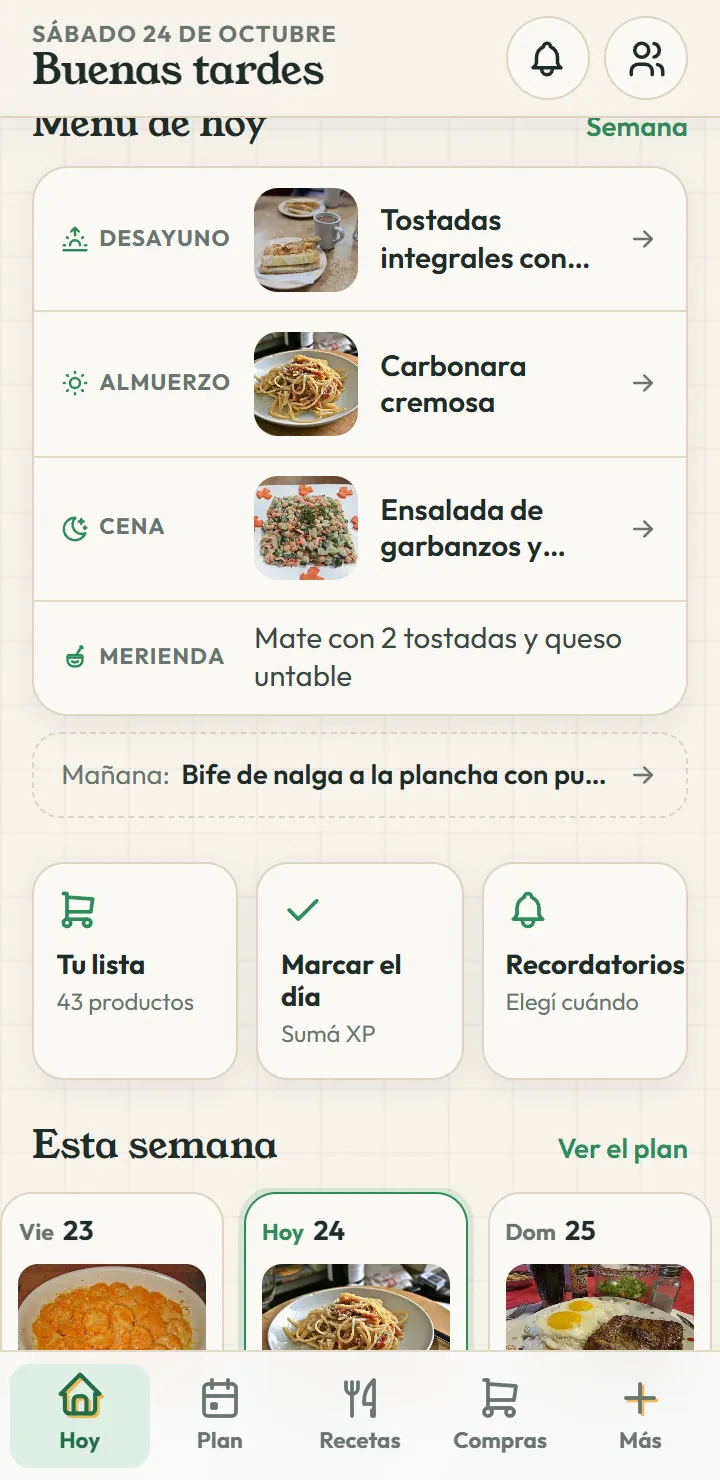
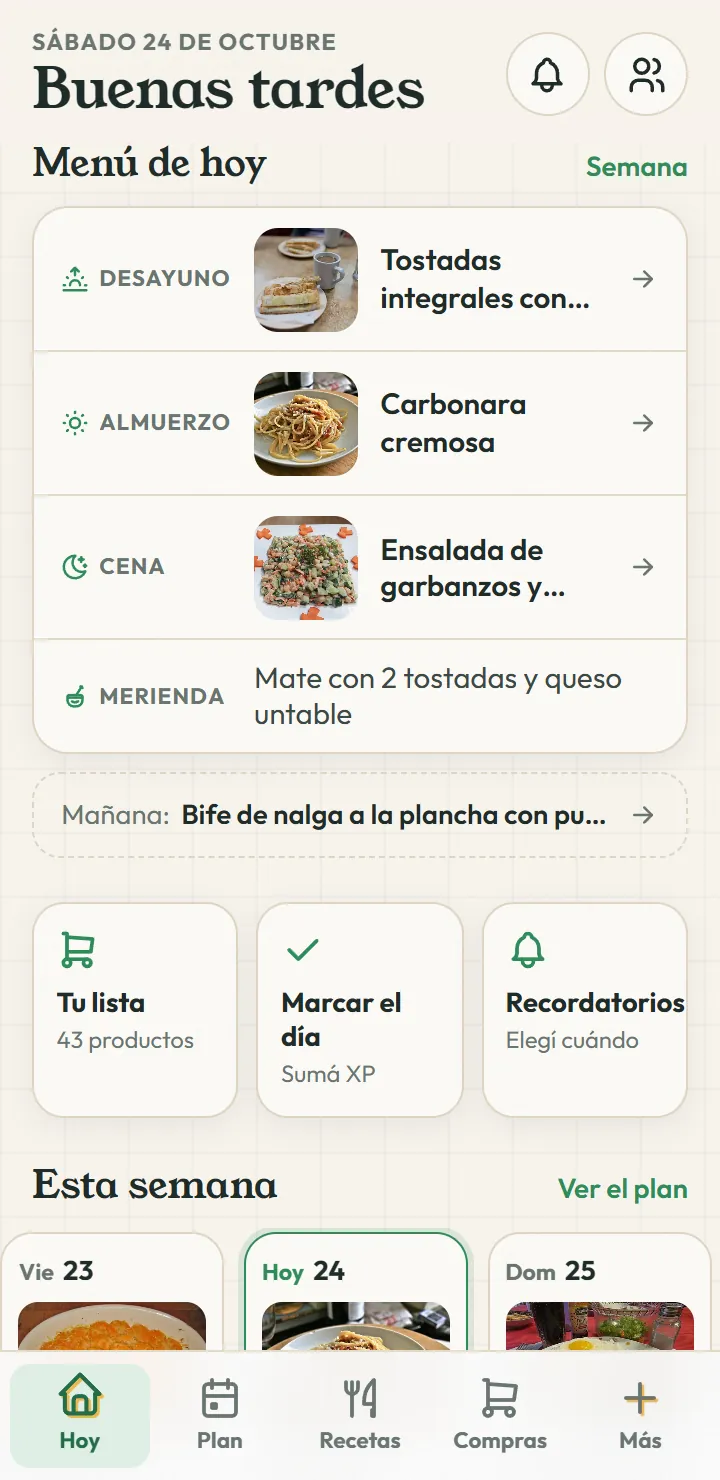
Hoy: «Avisos» en los accesos rápidos; capturas de la app actualizadas

diff --git a/app.js b/app.js
@@ -823,7 +823,7 @@
         <div class="ap-quick">
           <a class="ap-q" href="compras.html">${ic("compras")}<span><b>Tu lista</b><small>${n} productos</small></span></a>
           <a class="ap-q" href="mi-plan.html">${ic("check")}<span><b>Marcar el día</b><small>Sumá XP</small></span></a>
-          <button type="button" class="ap-q notif-btn">${ic("bell")}<span><b>Recordatorios</b><small class="ap-nstate">Elegí cuándo</small></span></button>
+          <button type="button" class="ap-q notif-btn">${ic("bell")}<span><b>Avisos</b><small class="ap-nstate">Elegí cuándo</small></span></button>
         </div>
         <section class="ap-week"><div class="ap-h"><h2>Esta semana</h2><a href="plan.html">Ver el plan</a></div>
           <div class="ap-days">${week.map((d) => { const r = R[d.almuerzo]; return `<button type="button" class="ap-day${d.date === todayISO ? " is-today" : ""}" data-rec="${d.almuerzo}"><span class="ap-dw">${d.date === todayISO ? "Hoy" : d.dow.slice(0, 3)} <b>${+d.date.slice(8)}</b></span><img src="${r.img}"${srcs(r)} alt="" loading="lazy"><span class="ap-dn">${esc(r.name)}</span></button>`; }).join("")}</div></section>

diff --git a/sw.js b/sw.js
@@ -1,5 +1,5 @@
 /* Service worker · Menuario (generado por tools/build_pwa.py, no editar a mano) */
-const V = "pc-e863d95be3";
+const V = "pc-09470c4d83";
 const CORE = ["./", "index.html", "plan.html", "recetas.html", "compras.html", "supermercados.html", "temporada.html", "nutricion.html", "mi-plan.html", "terminos.html", "privacidad.html", "promos.html", "app.html", "style.css", "motion.css", "gami.css", "app.js", "ahorro.js", "cuenta.js", "config.js", "data.js", "manifest.webmanifest", "img/icons/icon-192.png", "fonts/outfit-v15-latin_latin-ext-500.woff2", "fonts/outfit-v15-latin_latin-ext-600.woff2", "fonts/outfit-v15-latin_latin-ext-700.woff2", "fonts/outfit-v15-latin_latin-ext-regular.woff2", "fonts/young-serif-v2-latin_latin-ext-regular.woff2"];
 self.addEventListener("install", (e) => { e.waitUntil(caches.open(V).then((c) => c.addAll(CORE)).then(() => self.skipWaiting())); });
 const NOTIF = "menuario-notif";  // datos para los recordatorios (los escribe app.js): no se borra al actualizar
